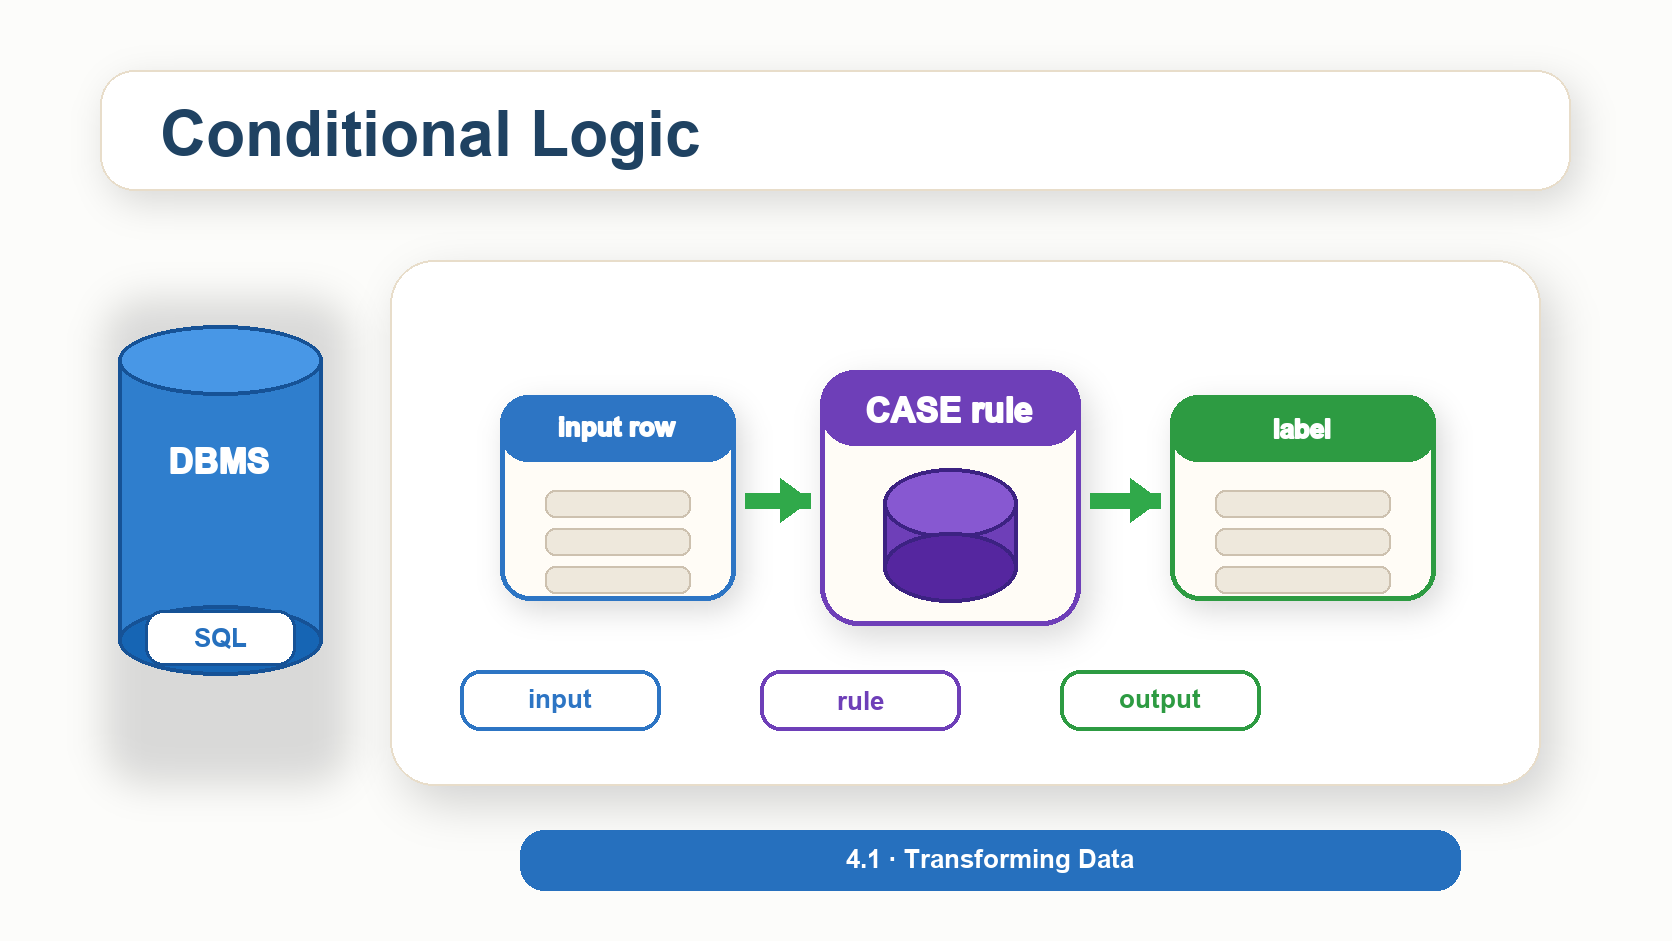
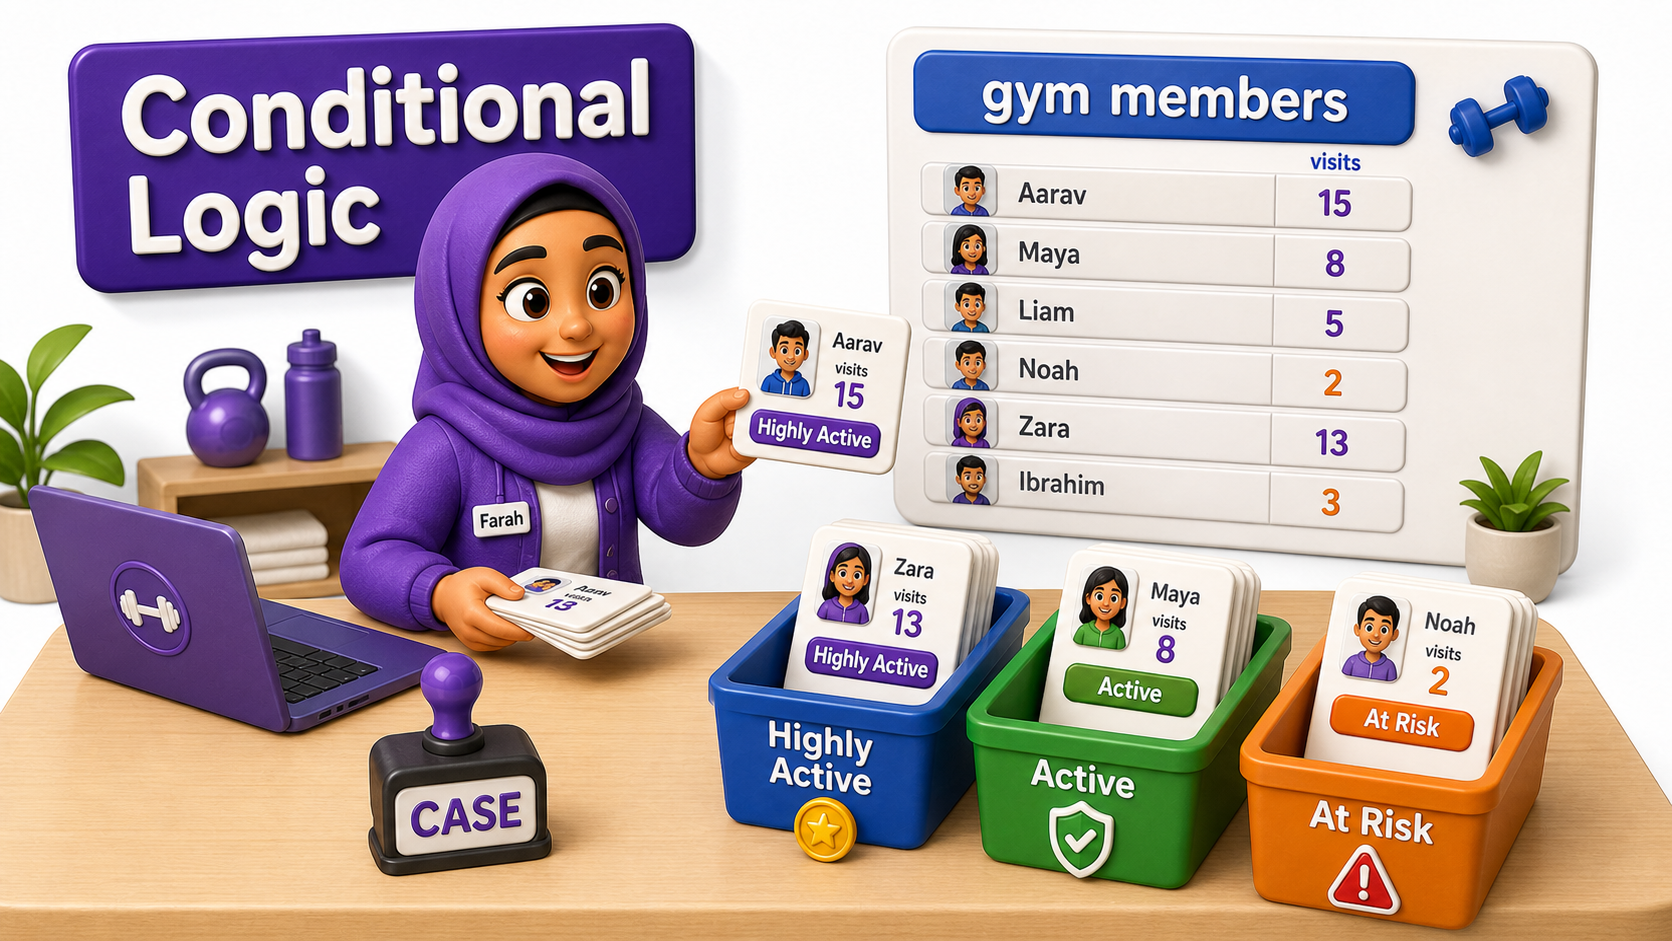
Replace unit 4.1 intro placeholders with actual 3D visuals

diff --git a/content/DBMS_Upload_Chapters/4.1 - Transforming Data/03_date_and_time_functions.md b/content/DBMS_Upload_Chapters/4.1 - Transforming Data/03_date_and_time_functions.md
@@ -10,7 +10,7 @@ A timestamp is a single value, but the questions above need it pulled apart, com
 
 **Definition:** Date and time functions turn a single stored timestamp into whatever shape a question needs: `NOW()` and `CURRENT_DATE` for a reference point, interval arithmetic for shifting dates forward or measuring spans, and `EXTRACT` for pulling out just a weekday or an hour.
 
-![Intro visual for date and time functions](https://s3.ap-south-1.amazonaws.com/static.bytexl.app/uploads/44sjn9mdv/content/images/03_intro_date_and_time_functions_clean_e35e31b4.png)
+![Intro visual for date and time functions](https://s3.ap-south-1.amazonaws.com/static.bytexl.app/uploads/44sjn9mdv/content/images/03_intro_date_and_time_functions_actual3d_d8393a60.png)
 
 ## Getting the Current Moment
 

diff --git a/content/DBMS_Upload_Chapters/4.1 - Transforming Data/04_nullhandling_functions.md b/content/DBMS_Upload_Chapters/4.1 - Transforming Data/04_nullhandling_functions.md
@@ -9,7 +9,7 @@ Both gaps are stored as `NULL`, and both cause the same problem once Vikram trie
 
 **Definition:** `COALESCE` and `NULLIF` are small functions that solve a large, recurring problem: real data has gaps, and a query that ignores those gaps produces blank cells, broken math, or misleading duplicates.
 
-![Intro visual for nullhandling functions](https://s3.ap-south-1.amazonaws.com/static.bytexl.app/uploads/44sjn9mdv/content/images/04_intro_nullhandling_functions_clean_440cde3d.png)
+![Intro visual for nullhandling functions](https://s3.ap-south-1.amazonaws.com/static.bytexl.app/uploads/44sjn9mdv/content/images/04_intro_nullhandling_functions_actual3d_d3db1706.png)
 
 ## Filling In a Default When a Value Is Missing
 

diff --git a/content/DBMS_Upload_Chapters/4.1 - Transforming Data/05_conditional_logic.md b/content/DBMS_Upload_Chapters/4.1 - Transforming Data/05_conditional_logic.md
@@ -6,7 +6,7 @@ That label does not exist anywhere in the table, it depends on a rule applied to
 
 **Definition:** `CASE` turns a raw column value into whatever label, category, or calculated result a business question actually needs, checking conditions in order and returning the first match, with `ELSE` as a safety net for everything else.
 
-![Intro visual for conditional logic](https://s3.ap-south-1.amazonaws.com/static.bytexl.app/uploads/44sjn9mdv/content/images/05_intro_conditional_logic_clean_cb332755.png)
+![Intro visual for conditional logic](https://s3.ap-south-1.amazonaws.com/static.bytexl.app/uploads/44sjn9mdv/content/images/05_intro_conditional_logic_actual3d_4e10345e.png)
 
 ## Writing a Simple CASE Expression
 

diff --git a/content/DBMS/4 - SQL for Data Retrieval and Analytics/4.1 - Transforming Data/04_nullhandling_functions.md b/content/DBMS/4 - SQL for Data Retrieval and Analytics/4.1 - Transforming Data/04_nullhandling_functions.md
@@ -23,7 +23,7 @@ ON-IMAGE TEXT: show a short bold title "Nullhandling Functions" plus only these 
 GOAL: make the opening idea instantly clear and engaging while matching the existing DBMS reading-material image standards.
 -->
 
-![Intro visual for nullhandling functions](https://s3.ap-south-1.amazonaws.com/static.bytexl.app/uploads/44sjn9mdv/content/images/04_intro_nullhandling_functions_clean_440cde3d.png)
+![Intro visual for nullhandling functions](https://s3.ap-south-1.amazonaws.com/static.bytexl.app/uploads/44sjn9mdv/content/images/04_intro_nullhandling_functions_actual3d_d3db1706.png)
 
 ## Filling In a Default When a Value Is Missing
 

diff --git a/content/DBMS/4 - SQL for Data Retrieval and Analytics/4.1 - Transforming Data/03_date_and_time_functions.md b/content/DBMS/4 - SQL for Data Retrieval and Analytics/4.1 - Transforming Data/03_date_and_time_functions.md
@@ -24,7 +24,7 @@ ON-IMAGE TEXT: show a short bold title "Date And Time Functions" plus only these
 GOAL: make the opening idea instantly clear and engaging while matching the existing DBMS reading-material image standards.
 -->
 
-![Intro visual for date and time functions](https://s3.ap-south-1.amazonaws.com/static.bytexl.app/uploads/44sjn9mdv/content/images/03_intro_date_and_time_functions_clean_e35e31b4.png)
+![Intro visual for date and time functions](https://s3.ap-south-1.amazonaws.com/static.bytexl.app/uploads/44sjn9mdv/content/images/03_intro_date_and_time_functions_actual3d_d8393a60.png)
 
 ## Getting the Current Moment
 

diff --git a/content/DBMS/4 - SQL for Data Retrieval and Analytics/4.1 - Transforming Data/05_conditional_logic.md b/content/DBMS/4 - SQL for Data Retrieval and Analytics/4.1 - Transforming Data/05_conditional_logic.md
@@ -20,7 +20,7 @@ ON-IMAGE TEXT: show a short bold title "Conditional Logic" plus only these few l
 GOAL: make the opening idea instantly clear and engaging while matching the existing DBMS reading-material image standards.
 -->
 
-![Intro visual for conditional logic](https://s3.ap-south-1.amazonaws.com/static.bytexl.app/uploads/44sjn9mdv/content/images/05_intro_conditional_logic_clean_cb332755.png)
+![Intro visual for conditional logic](https://s3.ap-south-1.amazonaws.com/static.bytexl.app/uploads/44sjn9mdv/content/images/05_intro_conditional_logic_actual3d_4e10345e.png)
 
 ## Writing a Simple CASE Expression
 
